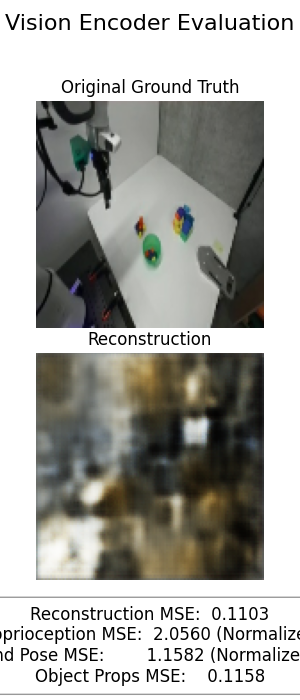
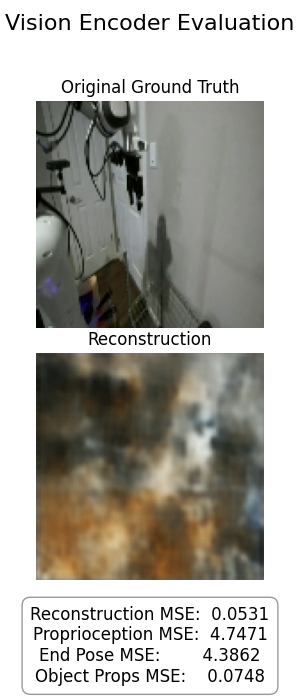
fixing poor image reconstruction

diff --git a/scripts/eval_vision.py b/scripts/eval_vision.py
@@ -84,6 +84,15 @@ def evaluate_vision(args):
             print("Running forward pass...")
             # We don't apply noisy dropout during evaluation, pass the clean goal
             latent, preds = model(images, raw_goal=raw_goal, return_preds=True)
+            
+            # --- DEBUG ---
+            print(f"Latent shape: {latent.shape}")
+            print(f"Latent Mean (per channel limit): min={latent.mean(0).min().item():.4f}, max={latent.mean(0).max().item():.4f}")
+            print(f"Latent Std (per channel): {latent.std(0).mean().item():.4f} (Average over channels)")
+            print(f"Latent Std (across batch): {latent.std(dim=0).mean().item():.4f}")
+            print(f"Image Min: {images.min().item():.4f}, Max: {images.max().item():.4f}")
+            print(f"Recon Min: {preds['reconstruction'].min().item():.4f}, Max: {preds['reconstruction'].max().item():.4f}")
+            # -------------
 
     # Calculate MSE vs Ground Truth
     criterion_mse = torch.nn.MSELoss()

diff --git a/src/models/encoders.py b/src/models/encoders.py
@@ -125,7 +125,7 @@ class VisionEncoder(nn.Module):
             pooled = self.pool(features).flatten(1)
             
         # Project to Latent
-        latent = self.act(self.ln_proj(self.proj(pooled))) # (B, 256)
+        latent = self.ln_proj(self.proj(pooled)) # (B, 256)
         
         if return_preds:
             # Decode for reconstruction
